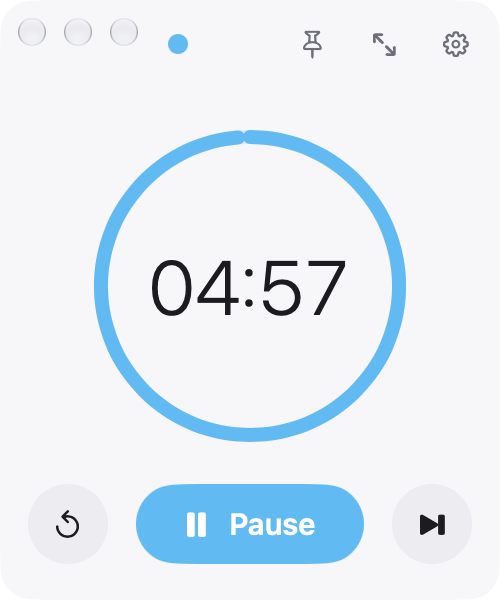
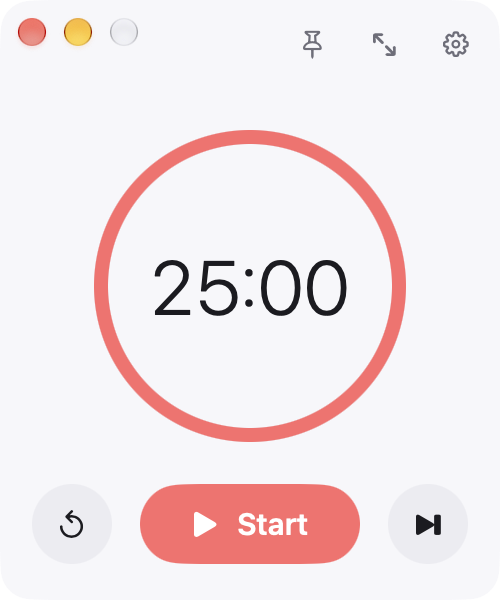
macOS: Settings in the menu bar menu, centered title, no dot in compact mode
The menu bar item's menu gets a "Settings…" entry (shows the main window, opens the
settings). The title row centers the phase dot and "Pomodoro" between the traffic lights
and the buttons instead of left-aligning them, and compact mode hides both. SPEC §7.2,
§7.7, §9 and §16 updated; screenshots refreshed.

diff --git a/macos/Sources/PomodoroApp/Views/MainView.swift b/macos/Sources/PomodoroApp/Views/MainView.swift
@@ -41,24 +41,26 @@ struct MainView: View {
     // MARK: - Title row
 
     private var titleRow: some View {
-        HStack(spacing: 8) {
-            // Traffic lights live on the left; leave room for them.
-            Spacer().frame(width: 62)
-            Circle().fill(theme.accent(for: vm.snap.activePhase)).frame(width: 10, height: 10)
+        ZStack {
+            // Centered name with the active-phase dot; nothing in compact mode.
             if !compact {
-                Text("Pomodoro")
-                    .font(.system(size: 13, weight: .semibold))
-                    .foregroundColor(theme.textMuted)
+                HStack(spacing: 8) {
+                    Circle().fill(theme.accent(for: vm.snap.activePhase)).frame(width: 10, height: 10)
+                    Text("Pomodoro")
+                        .font(.system(size: 13, weight: .semibold))
+                        .foregroundColor(theme.textMuted)
+                }
             }
-            Spacer()
-            TitleIconButton(symbol: vm.isTopmost ? "pin.fill" : "pin", tint: vm.isTopmost ? theme.accent : nil,
-                            help: L.get("Tip_Pin"), action: vm.toggleTopmost)
-            TitleIconButton(symbol: compact ? "arrow.up.left.and.arrow.down.right" : "arrow.down.right.and.arrow.up.left",
-                            help: L.get(compact ? "Tip_Normal" : "Tip_Compact"), action: vm.toggleCompact)
-            TitleIconButton(symbol: "gearshape", help: L.get("Tip_Settings"), action: vm.openSettings)
+            HStack(spacing: 8) {
+                Spacer()
+                TitleIconButton(symbol: vm.isTopmost ? "pin.fill" : "pin", tint: vm.isTopmost ? theme.accent : nil,
+                                help: L.get("Tip_Pin"), action: vm.toggleTopmost)
+                TitleIconButton(symbol: compact ? "arrow.up.left.and.arrow.down.right" : "arrow.down.right.and.arrow.up.left",
+                                help: L.get(compact ? "Tip_Normal" : "Tip_Compact"), action: vm.toggleCompact)
+                TitleIconButton(symbol: "gearshape", help: L.get("Tip_Settings"), action: vm.openSettings)
+            }
+            .padding(.trailing, 8)
         }
-        .padding(.leading, 14)
-        .padding(.trailing, 8)
         .frame(height: 44)
     }
 

diff --git a/macos/Sources/PomodoroApp/StatusItemController.swift b/macos/Sources/PomodoroApp/StatusItemController.swift
@@ -11,6 +11,7 @@ final class StatusItemController {
     private let toggleEntry: NSMenuItem
 
     var showRequested: () -> Void = {}
+    var settingsRequested: () -> Void = {}
     var toggleRequested: () -> Void = {}
     var quitRequested: () -> Void = {}
 
@@ -22,11 +23,14 @@ final class StatusItemController {
 
         let show = NSMenuItem(title: env.L("Tray_Show"), action: #selector(onShow), keyEquivalent: "")
         toggleEntry = NSMenuItem(title: env.L("Start"), action: #selector(onToggle), keyEquivalent: "")
+        let settings = NSMenuItem(title: env.L("Settings_Title") + "…", action: #selector(onSettings), keyEquivalent: "")
         let quit = NSMenuItem(title: env.L("Tray_Exit"), action: #selector(onQuit), keyEquivalent: "")
-        for entry in [show, toggleEntry, quit] { entry.target = self }
+        for entry in [show, toggleEntry, settings, quit] { entry.target = self }
 
         menu.addItem(show)
         menu.addItem(toggleEntry)
+        menu.addItem(.separator())
+        menu.addItem(settings)
         menu.addItem(.separator())
         menu.addItem(quit)
         item.menu = menu
@@ -50,7 +54,8 @@ final class StatusItemController {
 
     func relocalize() {
         menu.items[0].title = env.L("Tray_Show")
-        menu.items[3].title = env.L("Tray_Exit")
+        menu.items[3].title = env.L("Settings_Title") + "…"
+        menu.items[5].title = env.L("Tray_Exit")
     }
 
     // MARK: - Drawing
@@ -96,5 +101,6 @@ final class StatusItemController {
 
     @objc private func onShow() { showRequested() }
     @objc private func onToggle() { toggleRequested() }
+    @objc private func onSettings() { settingsRequested() }
     @objc private func onQuit() { quitRequested() }
 }

diff --git a/macos/Sources/PomodoroApp/AppDelegate.swift b/macos/Sources/PomodoroApp/AppDelegate.swift
@@ -39,6 +39,10 @@ final class AppDelegate: NSObject, NSApplicationDelegate {
         statusItem = StatusItemController(env: env)
         statusItem.showRequested = { [weak self] in self?.mainWindow.show() }
         statusItem.toggleRequested = { [weak self] in self?.vm.trayToggle() }
+        statusItem.settingsRequested = { [weak self] in
+            self?.mainWindow.show()
+            self?.vm.openSettings()
+        }
         statusItem.quitRequested = { [weak self] in self?.quit() }
 
         vm.$snap

diff --git a/docs/macos/SPEC.md b/docs/macos/SPEC.md
@@ -268,8 +268,9 @@ follow the engine
 
 ### 7.2 Title row (44 pt)
 
-Left, after the traffic lights: a 10 pt dot filled with the **active** phase's accent (always, even in
-compact mode), then "Pomodoro" (13 pt, semibold, muted; hidden in compact mode).
+Centered: a 10 pt dot filled with the **active** phase's accent, then "Pomodoro" (13 pt, semibold,
+muted). Both are hidden in compact mode (macOS decision: the traffic lights already occupy the left,
+so the Windows left-aligned title would sit off-center; the compact window keeps only the buttons).
 Right: three 28-pt icon buttons: pin (tinted with the accent when `AlwaysOnTop`), compact / normal
 (tooltips `Tip_Compact` / `Tip_Normal`), settings (`Tip_Settings`). The Windows minimize and close
 buttons are not reproduced; the traffic lights do that.
@@ -304,7 +305,7 @@ then the session label (12 pt, muted). Bottom margin 22 pt.
 
 ### 7.7 Compact mode
 
-Hides the tabs, the footer, the "Pomodoro" title and the status line; shrinks the ring, time and
+Hides the tabs, the footer, the "Pomodoro" title with its dot and the status line; shrinks the ring, time and
 primary button as above; resizes the window to 250 × 300 keeping the **top-left** corner in place.
 Editing is not available in compact mode and is cancelled when entering it. Persisted in `CompactMode`.
 
@@ -424,7 +425,8 @@ Replaces the Windows tray icon. An `NSStatusItem` of variable length in the syst
   Re-rendered only when minutes, running state or accent changed.
 - **Tooltip**: `"Pomodoro — <phase title> <mm:ss>"`, or `Tray_AllDone` when finished.
 - **Menu** (opens on click): `Tray_Show`, `Start` / `Pause` (whichever applies, toggles the engine
-  and logs `UI: tray toggle`), separator, `Tray_Exit`. Captions follow the current language.
+  and logs `UI: tray toggle`), separator, `Settings_Title…` (shows the main window and opens the
+  settings window), separator, `Tray_Exit`. Captions follow the current language.
 
 The app also has the standard macOS main menu: application menu with Settings… (⌘,) and Quit (⌘Q),
 Window menu with Minimize (⌘M) and Close (⌘W).
@@ -545,7 +547,8 @@ and the status is "not registered", register again. If the status is "requires a
 | Windows | macOS |
 |---|---|
 | Borderless window with own minimize / close buttons | Native window chrome with traffic lights; pin, compact and settings buttons stay in the title row |
-| Tray icon, left click shows the window, right click opens the menu | Menu bar item, click opens the menu whose first entry is "Show"; the Dock icon also shows the window |
+| Tray icon, left click shows the window, right click opens the menu | Menu bar item, click opens the menu: Show, Start/Pause, Settings…, Quit; the Dock icon also shows the window |
+| Title "Pomodoro" with the phase dot at the left of the title bar, dot kept in compact mode | Centered after the traffic lights; hidden entirely in compact mode |
 | Balloon notification from the tray icon | User Notifications banner |
 | "Start with Windows" via the Run registry key | Login item via `SMAppService`, may require user approval |
 | Fluent icons (Segoe) | SF Symbols |
